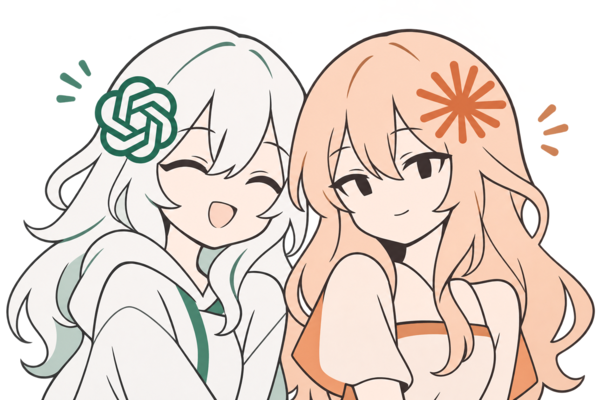
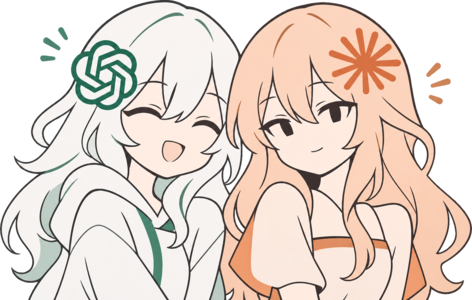
Fit illustration to the intro height

diff --git a/README.md b/README.md
@@ -1,4 +1,4 @@
-<img src="assets/duo.png" align="right" width="240" alt="">
+<img src="assets/duo.png" align="right" height="100" alt="">
 
 ### Hi, I'm Jonas.
 
